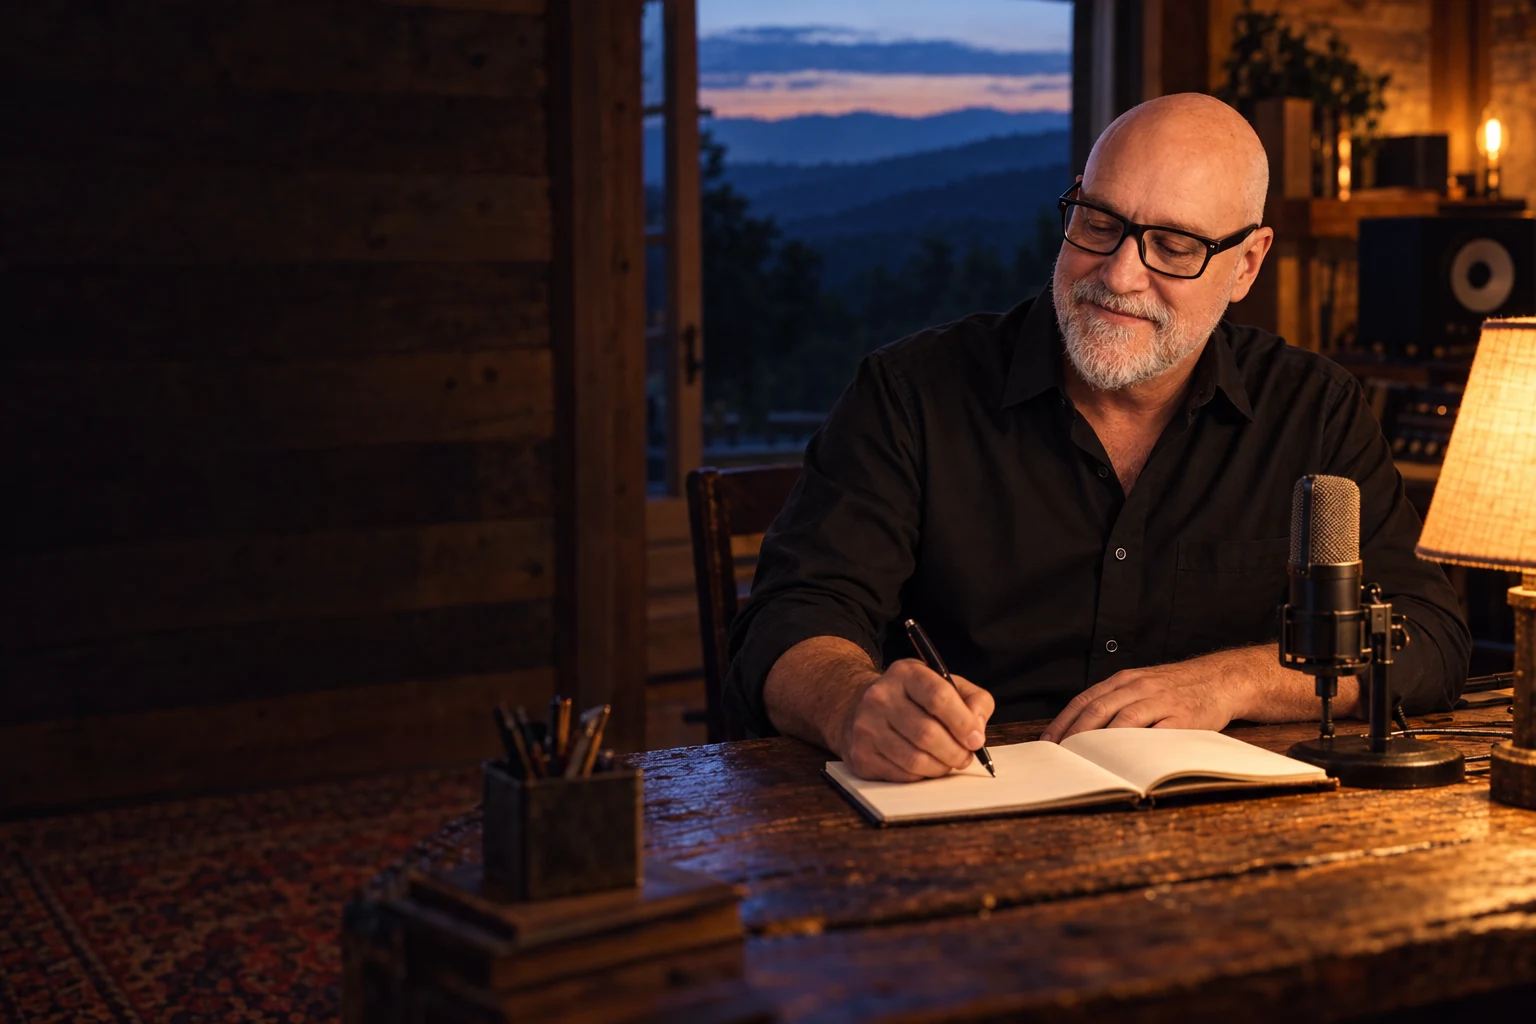
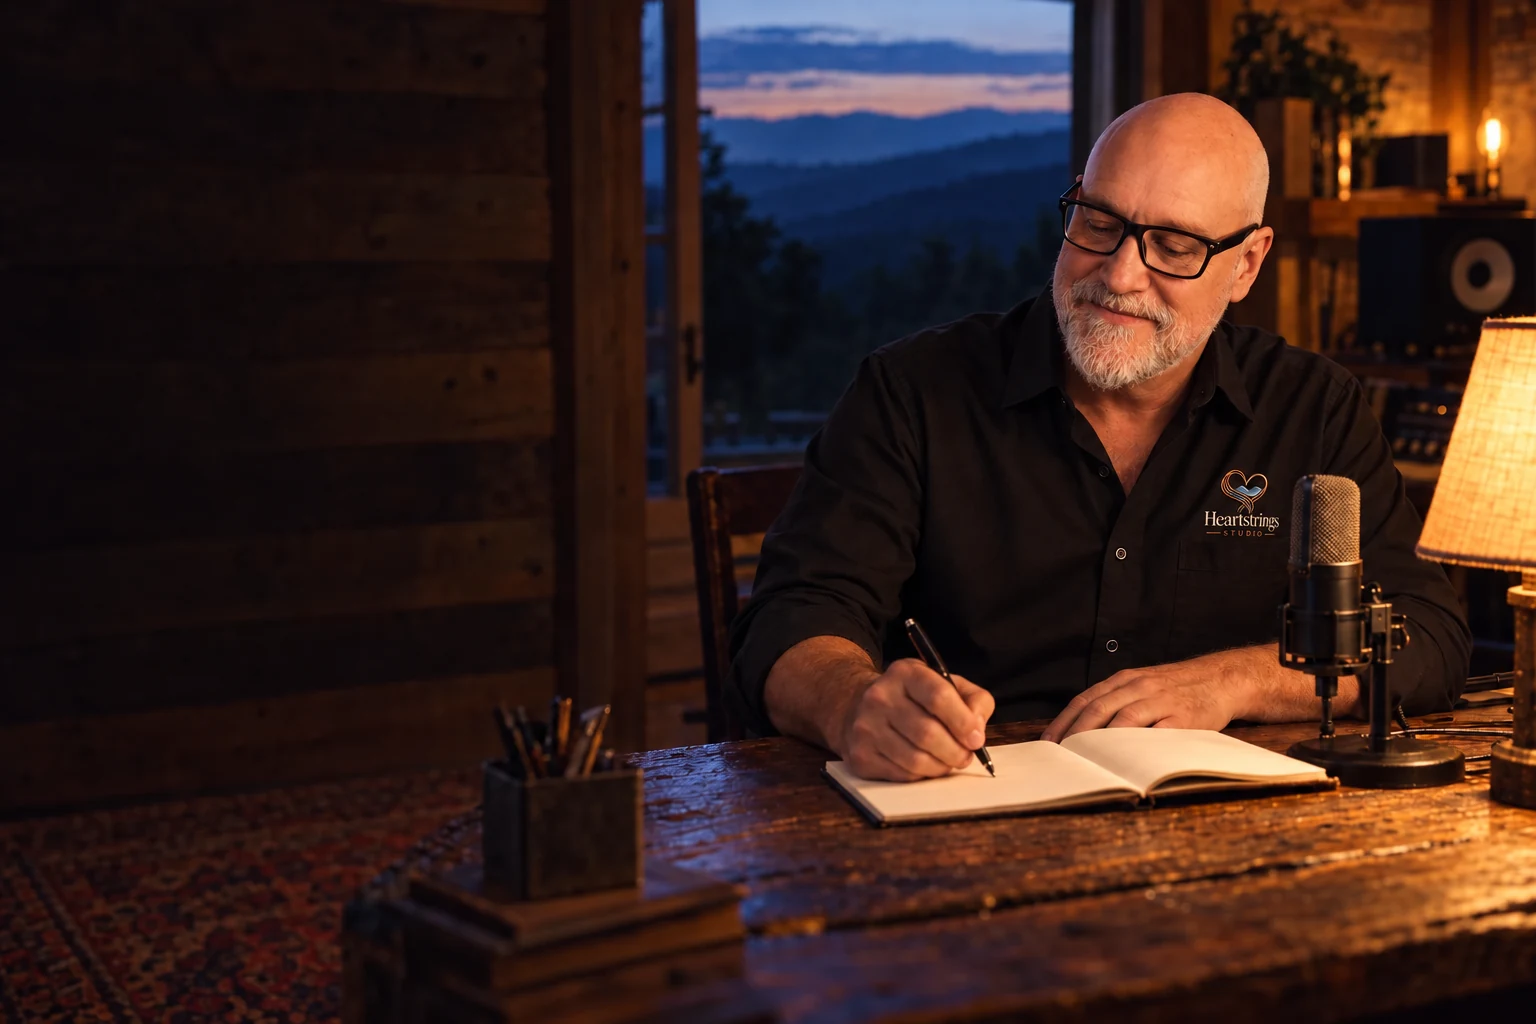
Swap the hero scene for the new lamplit desk photo (#125)
Replace assets/studio.webp with "studio tim.png" from the studio's Drive —
Tim writing at the desk in the branded shirt, ribbon mic and lamp lit, the
Blue Ridge going blue through the open door. Same 1536x1024 as the file it
replaces, so it drops straight into the hero and every crop that uses it;
encoded at WebP q88 for 103KB, a shade under the old 107KB.

The composition suits the hero better than the old scene: Tim sits right of
centre and the left third is dark wall, so the hero copy and its 90deg
shade sit on empty ground instead of over the subject. The existing alt
text still describes it, and object-position:62% center still frames it.

Cache-bust the img with ?v=2-hero so returning visitors get the new file;
og:image and the two JSON-LD image URLs keep the clean path.

Note this file is also the 'teacher' backdrop behind song-card thumbnails
via sceneFor() in script.js, so those cards pick up the new scene too.

Bump the sitemap lastmod.

Claude-Session: https://claude.ai/code/session_011zjxr81VwXxuwZvtdKCQaS

diff --git a/index.html b/index.html
@@ -298,7 +298,7 @@
 </head>
 <body><a class="skip" href="#main">Skip to content</a>
 <header><a class="brand" href="#"><img src="assets/logo.png?v=3-newlogo" alt="" width="44" height="44"><span>HEARTSTRINGS<small>STUDIO · WEST VIRGINIA</small></span></a><nav aria-label="Main navigation"><a href="#listen">Listen</a><a href="#process">The Process</a><a href="#pricing">Investment</a><a href="#meet-tim">Meet Tim</a></nav><a class="button small" href="https://heartstringsstudio.github.io/storyroom/">Tell your story <span>↗</span></a></header>
-<main id="main"><section class="hero"><img class="hero-scene" src="assets/studio.webp" alt="A portrait-inspired scene of Tim writing in a warmly lit Appalachian studio" fetchpriority="high"><div class="hero-shade"></div><div class="hero-copy wrap"><p class="eyebrow">LUMBERPORT, WEST VIRGINIA <span class="eyebrow-sep">·</span> <span class="eyebrow-tail">CUSTOM SONGWRITING</span></p><h1>Some stories <br>feel like <em>home.</em> <br>Let's give yours <br>a song.</h1><p class="intro">Your people. Your memories. The things worth holding onto. <br>Personally written by Tim Harbert, one story at a time.</p><div class="actions"><a class="button" href="https://heartstringsstudio.github.io/storyroom/">Tell me your story <span>↗</span></a><a class="text-link" href="#listen">Hear the songs ↓</a></div><p class="fine">$150 flat · Delivered in 48–72 hours</p></div><a class="hero-postcard" href="#listen"><img src="assets/porch.webp" alt="Amber porch light against blue Appalachian hills"><span>Pull up a chair. <br><em>Stay for a song.</em> <b>↓</b></span></a><a class="scroll-cue" href="#heart">SCROLL INTO THE STORY <span>↓</span></a></section><div class="proof wrap"><div><strong>107</strong><span>stories turned into songs</span></div><div><strong>48–72h</strong><span>from your story to your song</span></div><div><strong>★★★★★</strong><span>rated by the people behind the stories</span></div><a href="https://www.youtube.com/watch?v=j1_HRI6aJU4" target="_blank" rel="noopener" data-video="j1_HRI6aJU4" data-video-title="Heartstrings Studio on WBOY's 304 Today"><small>AS SEEN ON</small><b>WBOY <span>304 TODAY ▶</span></b></a></div>
+<main id="main"><section class="hero"><img class="hero-scene" src="assets/studio.webp?v=2-hero" alt="A portrait-inspired scene of Tim writing in a warmly lit Appalachian studio" fetchpriority="high"><div class="hero-shade"></div><div class="hero-copy wrap"><p class="eyebrow">LUMBERPORT, WEST VIRGINIA <span class="eyebrow-sep">·</span> <span class="eyebrow-tail">CUSTOM SONGWRITING</span></p><h1>Some stories <br>feel like <em>home.</em> <br>Let's give yours <br>a song.</h1><p class="intro">Your people. Your memories. The things worth holding onto. <br>Personally written by Tim Harbert, one story at a time.</p><div class="actions"><a class="button" href="https://heartstringsstudio.github.io/storyroom/">Tell me your story <span>↗</span></a><a class="text-link" href="#listen">Hear the songs ↓</a></div><p class="fine">$150 flat · Delivered in 48–72 hours</p></div><a class="hero-postcard" href="#listen"><img src="assets/porch.webp" alt="Amber porch light against blue Appalachian hills"><span>Pull up a chair. <br><em>Stay for a song.</em> <b>↓</b></span></a><a class="scroll-cue" href="#heart">SCROLL INTO THE STORY <span>↓</span></a></section><div class="proof wrap"><div><strong>107</strong><span>stories turned into songs</span></div><div><strong>48–72h</strong><span>from your story to your song</span></div><div><strong>★★★★★</strong><span>rated by the people behind the stories</span></div><a href="https://www.youtube.com/watch?v=j1_HRI6aJU4" target="_blank" rel="noopener" data-video="j1_HRI6aJU4" data-video-title="Heartstrings Studio on WBOY's 304 Today"><small>AS SEEN ON</small><b>WBOY <span>304 TODAY ▶</span></b></a></div>
 <section class="home-story" id="heart"><div class="home-sticky"><img src="assets/porch.webp" alt="An old wooden porch opening onto wooded West Virginia hills at dusk" class="porch-scene" loading="lazy"><div class="scene-shade"></div><div class="statement wrap"><p class="eyebrow">FROM THESE HILLS. FOR YOUR PEOPLE.</p><h2>A photo shows <br>the moment. <br><em>A song brings <br>you back.</em></h2><p>The laughter. The ache. The love underneath it all. <br>Your memories and your words, made into a song <br>only your story could have made.</p></div><span class="scene-caption">A LITTLE PORCH LIGHT. A WHOLE LOT OF HEART.</span></div></section><section class="occasion-section wrap"><p class="eyebrow">FOR THE MOMENTS WORTH HOLDING ONTO</p><div class="occasions" aria-label="Choose your occasion"></div></section><section class="listen section-pad" id="listen"><div class="wrap"><div class="section-head"><div><p class="eyebrow">THE STORIES ALREADY SINGING</p><h2>Press play. <br><em>Feel something.</em></h2></div><a class="text-link" href="https://heartstringsstudio.github.io/jukebox/">Explore the jukebox ↗</a></div><div class="song-grid" id="songs"></div></div></section>
 <section class="keepsake wrap section-pad"><div class="keepsake-copy"><div class="memory-photo"><img src="assets/wedding.webp" alt="A father and daughter embracing beside an Appalachian wedding gathering" loading="lazy"><span>The kind of love you carry with you.</span></div><p class="eyebrow">THE HEARTSTRINGS KEEPSAKE</p><h2>Not just a song. <br><em>Something to hold onto.</em></h2><p>A personal, unlisted page brings your song, custom artwork, and full lyrics together. Share the link with your people, or keep it close.</p><a class="text-link" href="#pricing">See everything included ↓</a></div><div class="keepsake-stack"><article><span>01 / A PLACE FOR YOUR STORY</span><h3>Your personal keepsake page</h3><p>One quiet home for your song, artwork, and lyrics.</p></article><article><span>02 / MADE FOR THIS MOMENT</span><h3>Custom album artwork</h3><p>Created for the story and feeling behind your song.</p></article><article><span>03 / YOURS TO KEEP</span><h3>MP3 + downloadable lyrics</h3><p>Save it, print it, play it, and pass the story on.</p></article></div></section>
 <section class="process wrap section-pad" id="process"><p class="eyebrow">FROM MEMORY TO MELODY</p><h2>Three steps. <br><em>One song, yours forever.</em></h2><div class="steps"><article><span>01</span><h3>Tell your story.</h3><p>Names. Memories. Inside jokes. The things only you know. Share them in a short intake form, along with the style and feeling you have in mind.</p></article><article><span>02</span><h3>We create together.</h3><p>Tim writes the lyrics and produces your song. You'll see the lyrics first, with one round of revisions before production.</p></article><article><span>03</span><h3>Keep it. Share it.</h3><p>In 48–72 hours, your keepsake page arrives by email, with your song, artwork, and downloads ready to enjoy.</p></article></div></section>
